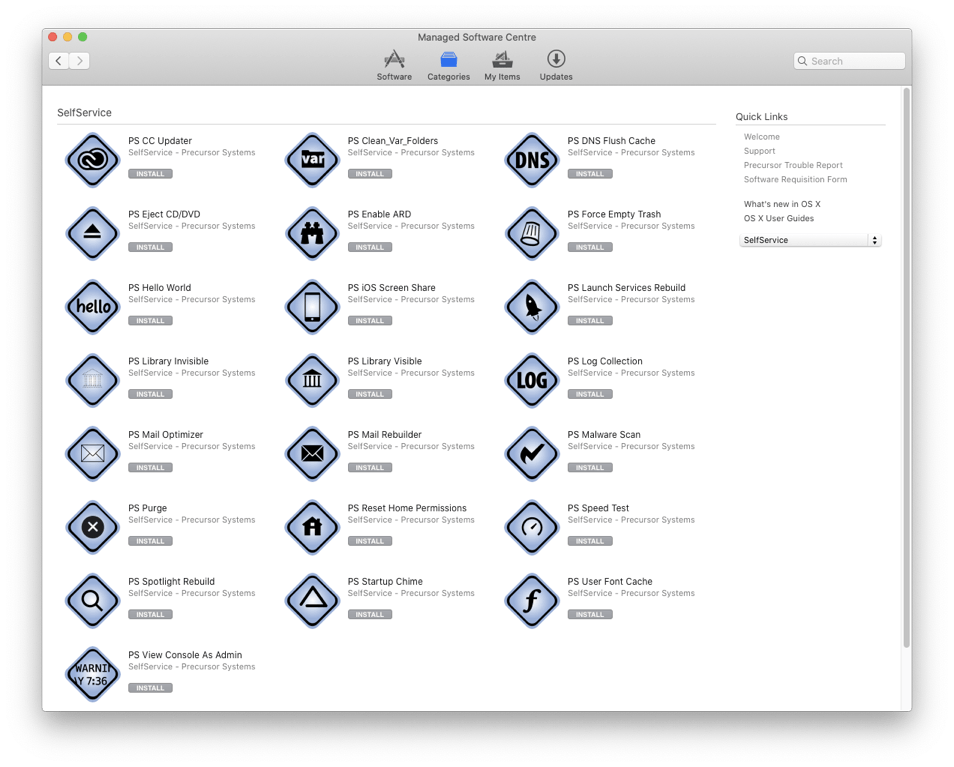
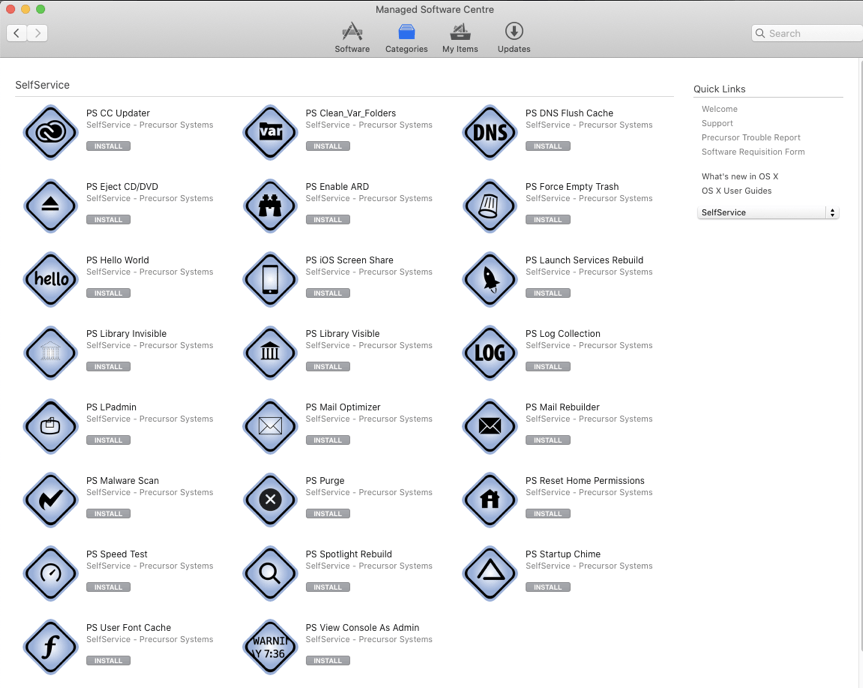
1.0.13
Updates to Mail_Rbuild, Mail_optimze and addition of Startup_Chime and LPadmin.

diff --git a/README.md b/README.md
@@ -1,7 +1,7 @@
 # Munki-SelfService-On-Demand
 
-> v. 1.0.12  
-> February 23, 2020  
+> v. 1.0.13  
+> February 26, 2020  
 > Alex Narvey / Precursor.ca  
 
 ![Self Service Screenshot](SelfServices_ScreenShot.png)
@@ -34,7 +34,7 @@ Initiates an update of all installed Creative Cloud apps so that Standard Users 
 
 ### PS-clean_var_folders
 This utility will clear the contents of the folder /private/var/folders which caches various things that may become corrupt and - among other things - prevent an app from launching. 
-This is “big medecine” and should only be undertaken under the advisement of your system adminstrator. After performing this function you should then choose "Restart" from the Apple menu to start up the computer. It will automatically rebuild anything it needs in /private/var/folders.
+This is “big medicine” and should only be undertaken under the advisement of your system administrator. After performing this function you should then choose "Restart" from the Apple menu to start up the computer. It will automatically rebuild anything it needs in /private/var/folders.
 10.9.5 or higher
 
 ### PS-dns_flush_cache
@@ -73,7 +73,7 @@ Resets launch services to help with problems in window display and open with per
 10.9.5 or higher.
 
 ### PS-library_invisible
-Makes the ~/Library invisibile again - if a user has made it visible and wants to return it to its natural state.
+Makes the ~/Library invisible again - if a user has made it visible and wants to return it to its natural state.
 10.9.5 or higher.
 
 ### PS-library_visible
@@ -84,13 +84,17 @@ Makes the normally invisible ~/Library folder visible and opens it in the Finder
 Gathers all System and Install logs and places an archive into the user's downloads folder.
 10.9.5 or higher.
 
+### PS-lpadmin
+Adds standard user to lpadmin group to allow for administration of print queues.
+10.12.6 or higher.
+
 ### PS-mail_optimizer
 Vacuums the Mail app database to make it more efficient.
 10.9.5 or higher.
 
 ### PS-mail_rebuilder
 Deletes the Mail app Envelope and causes Mail to resync with the server and pull down all the messages again. Can take a long time depending on amount of mail and internet speed.
-10.9.5 or higher.
+10.12.6 or higher.
 
 ### PS-malware_scan
 Initiates a malware scan utilizing Malwarebytes for Mac 3.0 or higher provided it is properly installed and access privileges are granted - see included document "Munki and osascript Notes"
@@ -101,7 +105,7 @@ Runs the "purge" command to free up memory without requiring a restart. It may a
 10.9.5 or higher.
 
 ### PS-speedtest
-Test your internet speeed (upload and download) using speedtest.cli and pops up the results in a Safari window. Flash is NOT required.
+Test your internet speed (upload and download) using speedtest.cli and pops up the results in a Safari window. Flash is NOT required.
 10.9.5 or higher.
 
 ### PS-spotlight_rebuilder
@@ -135,7 +139,7 @@ Lets a standard user view the System log with the /Applications/Utilities/Consol
 * April 5, 2017 Version 1.0.10 Added PS-enable_ard to enable the Apple Remote Desktop client (more info at http://scriptingosx.com/2016/01/control-apple-remote-desktop-access-with-munki/).
 * October 16, 2017 Version 1.0.11 Added PS-malware_scan to initiate a Malwarebytes for Mac 3.0 scan. (May require some other manipulations. See included "Munki and osascript Notes").
 * February 23, 2020 Version 1.0.12 Added PS-startup_chime to enable the missing Startup Chime on Macs from 2016 on with T1 or T2 chips.
-
+* February 26, 2020 Version 1.0.13 Added PS-lpadmin to put standard users into lpadmin print group to allow for administration of print queues. Updated PS-Mail_Rebuilder and PS Mail_Optimizer to work for Sierra up to Catalina
 
 ## Contributors
 * Alex Narvey
